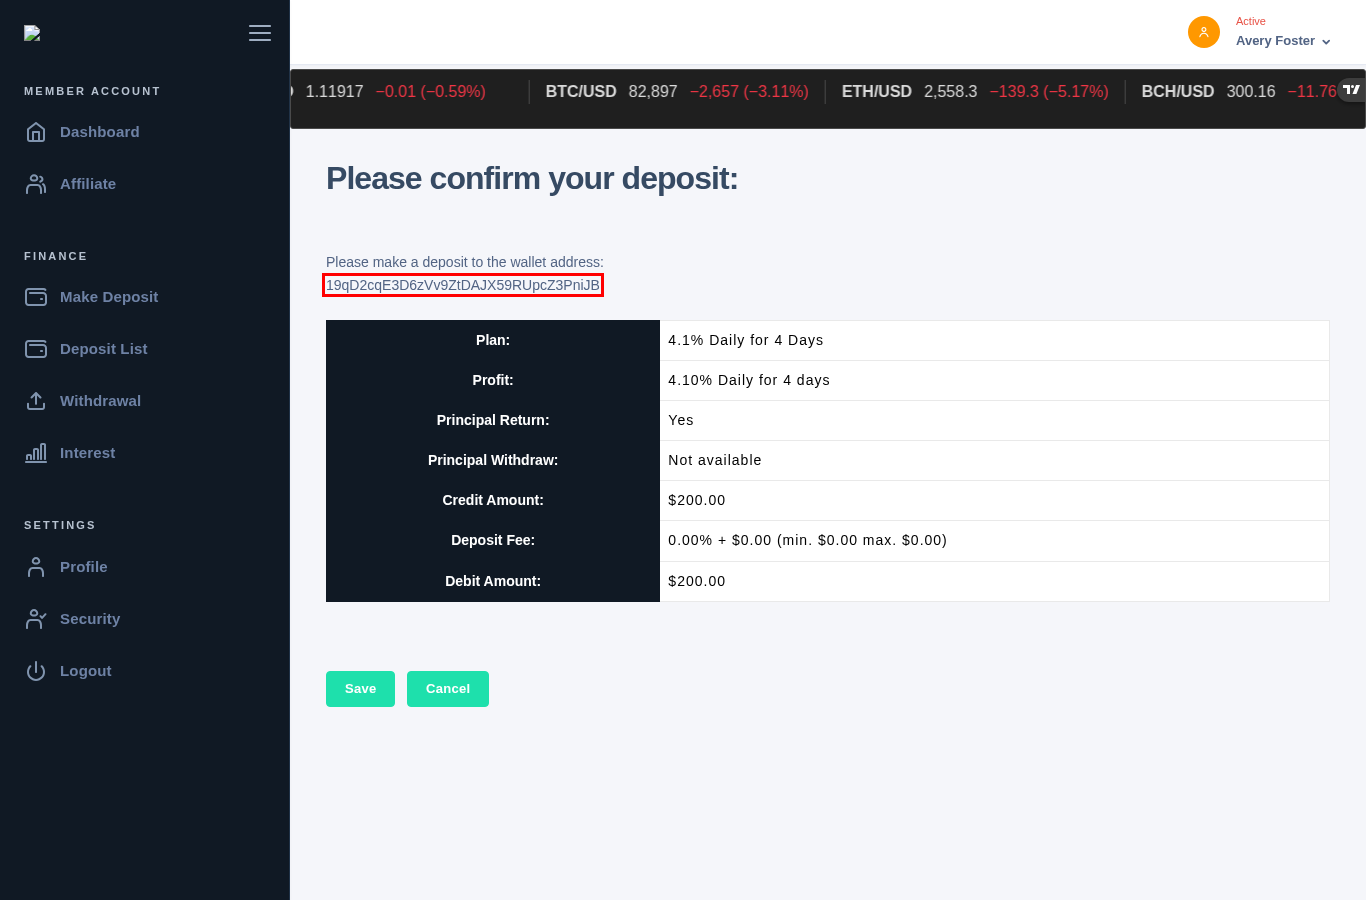
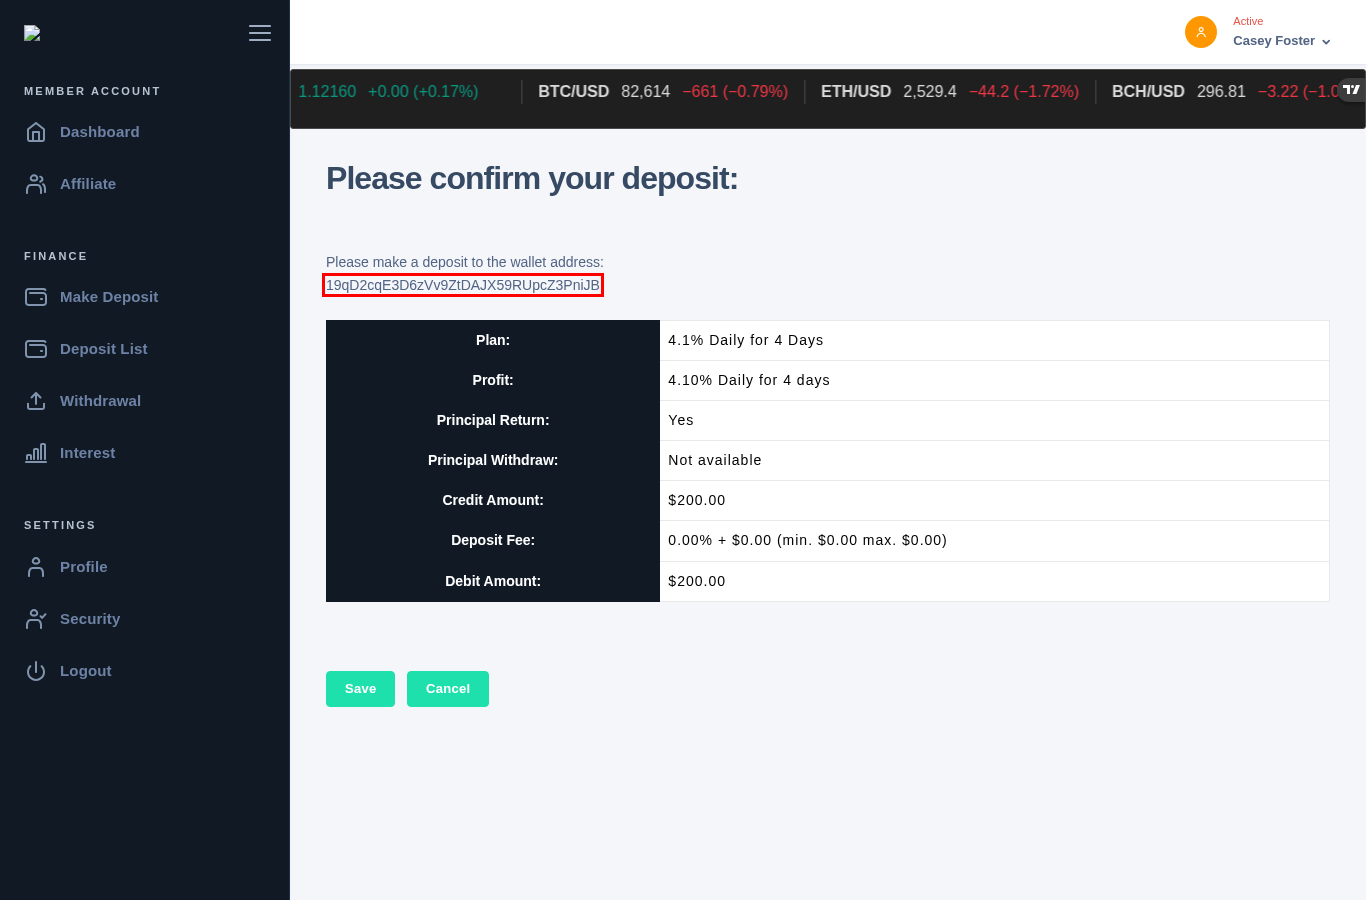
Merge 032 and 109 from the targeted rerun (superset, provenance notes)
Primary address findings 19 -> 22 (20 unique). Validated.

Changed region(s): [[0.3997, 0.0933, 0.9839, 0.1244], [0.2152, 0.0933, 0.369, 0.1244], [0.8609, 0.0, 0.9224, 0.0622]]

diff --git a/docs/LOG.md b/docs/LOG.md
@@ -1205,3 +1205,10 @@ On the 43 effective live sites of `capture-2` (classified from saved evidence, 1
 - **Results vs the batch:** 087 now `goal_reached` (27 actions; was `budget_time`), with the same 4 addresses. 057 `no_progress` again on its deposit page, the same 3 addresses. 061 `no_progress` after two "Register"/"Reload" clicks ended on a Chrome error page (undone with `back`); no address. 067 `not_applicable`: cart clicks time out, and no account flow was found; no address.
 - **Per-account finding:** 057 and 087 gave a second synthetic identity (`id-accbe7f5`, `id-5944f822`; the batch used `id-1f571fe5`, `id-0f3119a1`), about 13 h later, exactly the same primary addresses. On these two sites the deposit addresses are not per-account. The README limitation now says so. This is the first real-site evidence for A10.
 - **Merge:** `make report RUN=m6-final-20261007 ARGS="--supplement-run pilot-20261007b --supplement-run nav-rerun-20261008"` merged only 012 (from the pilot, as before). It found no conflict and nothing new from the rerun, so the published file is unchanged and the 087 `goal_reached` summary is not carried over (the merge rule moves navigation only with new addresses). `scripts/validate_run.py`: OK. No manual redaction was needed.
+
+## 2026-10-08 10:55 · H+? · DECISION [arch] (user) + RESULT: 032 and 109 rerun unattended; merged as supersets
+- User chose to run 032 and 109 unattended instead of watched (`--confirm-submit` needs a person at a terminal; the batch had already registered on both without one, and the policy is enforced in code either way). Ran `make run RUN_ID=nav-rerun-20261008 ARGS="--resume --only 32,109 --force-navigation --max-seconds 300 --max-steps 30 --concurrency 2 --spend-cap 2"`. Selftest 50/50; **$0.447** (45 calls). Whole rerun: **$0.900**.
+- **032:** `goal_reached`, 27 actions, 3 primary addresses: the batch's BTC P2PKH and TRON plus a new EVM `0xe92bfe0d89bc…`. **109:** `goal_reached`, 37 actions, 4 primary addresses: the batch's BTC P2PKH and EVM plus a new TRON `TTgKQEVqQQWR…` ("Please send your payments to this account", screenshot checked) and a second EVM `0x7Dcb51F13C04…` (from a "USDT bep20" selection, per the agent's rationale; its label is UNKNOWN). No policy refusals. On 109 the agent clicked "Spend", which is this HYIP kit's deposit-submit button: it creates a pending deposit order for the new zero-balance account and shows the address. The first click timed out, a later one ran. "Spend" is not on the always-blocked list; it is in the same class as the allowed deposit submits.
+- `make rescore RUN=runs/nav-rerun-20261008` ($0, 6 cache hits) rebuilt the run's `results.json` with all 6 records. Then `make report RUN=m6-final-20261007 ARGS="--supplement-run pilot-20261007b --supplement-run nav-rerun-20261008"` merged 012 (pilot), 032 and 109 (rerun), all supersets with no conflicts, each with a provenance note. **Primary findings 19 → 22 (17 → 20 unique) on 8 sites**; 342 address details; verdicts and hand-label metrics unchanged. `scripts/validate_run.py`: OK.
+- Side effect: two existing screenshot files of 032 and one of 109 were replaced by the rerun's images. Exported names hash the sighting's relative path, which is the same across runs; they still show the same address. Accepted; a run-qualified name would avoid it.
+- README: Provenance is now a table of the three merged records; address counts updated.

diff --git a/README.md b/README.md
@@ -14,7 +14,7 @@ The final run (`m6-final-20261007`) completed all 160 records with no partial or
 |---|---:|
 | Scam / not scam | 77 / 83 (live content 34 / 11) |
 | Live / non-live at final triage | 43 / 117 |
-| Primary address findings | 19 (17 unique) on 8 sites |
+| Primary address findings | 22 (20 unique) on 8 sites |
 | Low-confidence findings | 320 (319 unique) on 2 sites |
 | Navigation attempted / deposit page reached | 39 / 7 |
 | Hand-label accuracy | 96% (24/25) |
@@ -61,12 +61,20 @@ precision, 80% recall) and contain all three negatives and the one miss; the 17 
 assistant from saved screenshots are all scams and all match the pipeline (17/17). Those 17 are
 not independent of the system they evaluate, so the 8-label figures are the honest ones.
 
-**Provenance.** One published record merges two saved runs. Site 012 (`bradfordtradeins.com`)
-keeps the final run's classification, but its addresses and `navigation` summary come from pilot
-run `pilot-20261007b`. The final run hit its 180 s navigation limit after BTC and EVM; the pilot,
-at 300 s, also reached the TRON address. The record's `notes` say so. No other record is merged:
-a targeted rerun of 057, 061, 067 and 087 at 300 s (`nav-rerun-20261008`, $0.45) found no new
-addresses, and a saved run is merged only when it adds addresses to the published set.
+**Provenance.** Three published records merge two saved runs. Each keeps the final run's
+classification, and its addresses and `navigation` summary come from a later run at 300 s,
+because the final run hit its 180 s navigation limit on the deposit page. Each record's `notes`
+name the source run.
+
+| Site | Source run | Final run found | Merged record |
+|---|---|---|---|
+| 012 `bradfordtradeins.com` | `pilot-20261007b` | BTC, EVM | + TRON |
+| 032 `elite-crown.com` | `nav-rerun-20261008` | BTC, TRON | + EVM |
+| 109 `windrushs.co` | `nav-rerun-20261008` | BTC, EVM | + TRON, + a second EVM |
+
+A saved run is merged only if its addresses include every address already published (a new
+account could be given different, per-account addresses). The same rerun also covered 057, 061,
+067 and 087 and found nothing new, so those records are unchanged. The rerun cost $0.90 in total.
 
 The accepted full run and crash recovery cost approximately $4.12. Each cached rescore, including
 the one that applied the dead-site rule, cost $0.00; preserved per-site accounting totals 2,724,575 input and 87,888 output tokens. The local
@@ -261,7 +269,7 @@ Every input URL appears once and in input order. Fields omitted here are present
   320 values; keeping them separate protects primary-address precision.
 
 No raw cookies, browser storage state, or secrets are published. The final artifact scan found no
-API/private-key patterns. All 339 published address details passed their format validator and
+API/private-key patterns. All 342 published address details passed their format validator and
 blocklist check and have an existing screenshot. The final egress review found no allowed request
 to a private/risky destination or non-web port. Quality details are recorded in `docs/LOG.md`.
 
